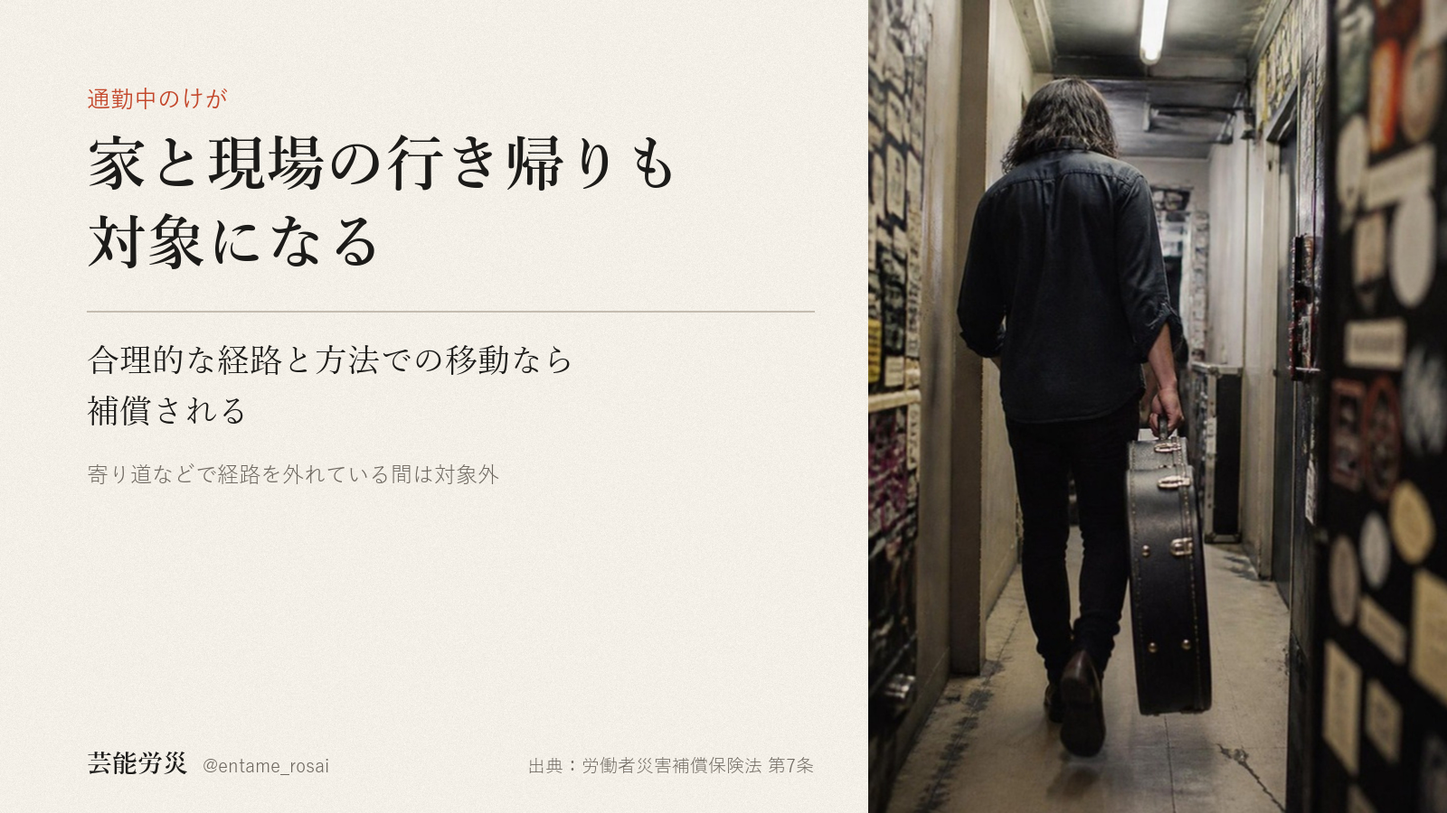
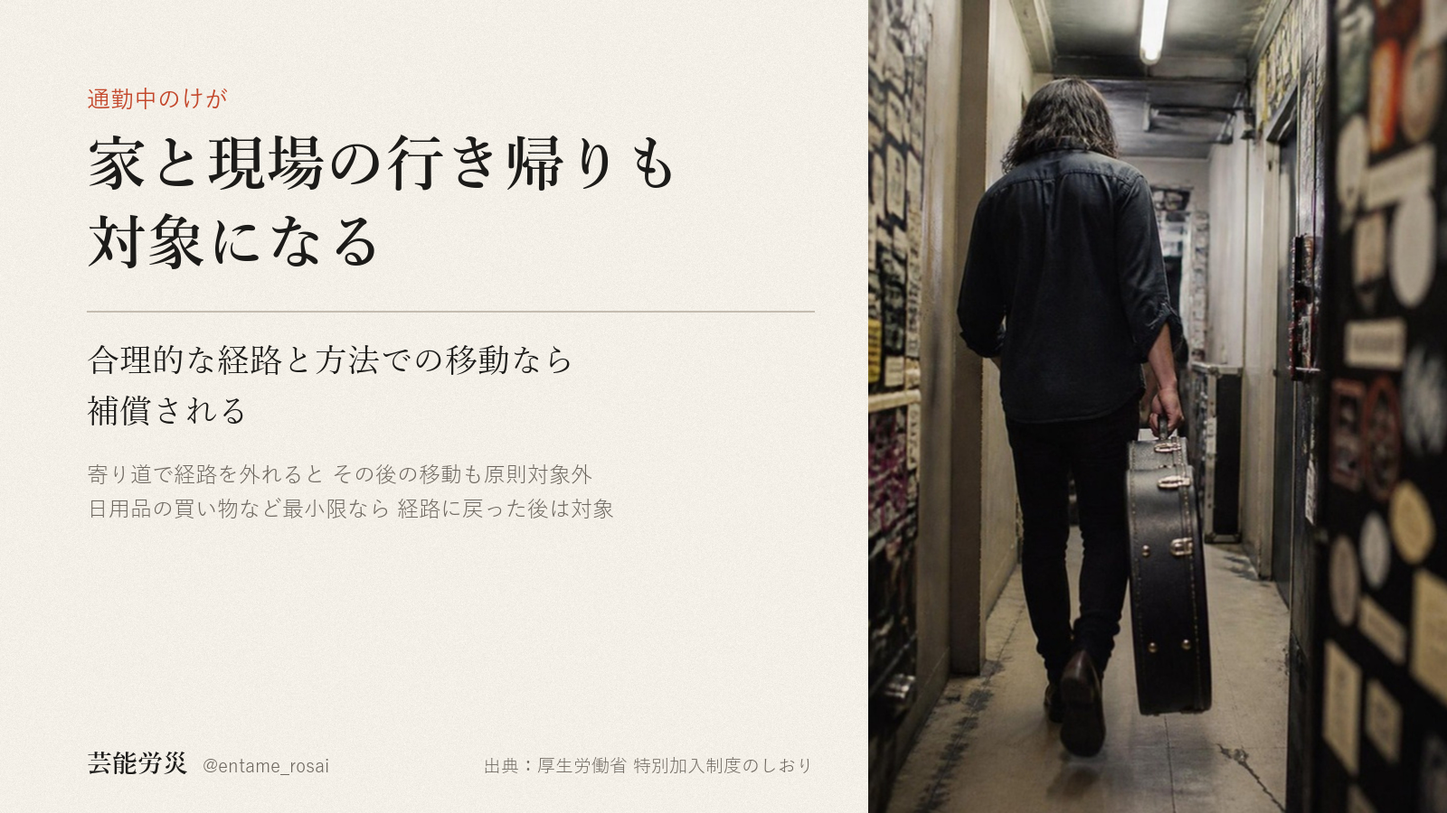
投稿デスク更新 2026-10-19（10-17 通勤の記述を修正）

Changed region(s): [[0.0625, 0.56, 0.4062, 0.6533], [0.3438, 0.9333, 0.5625, 0.9644], [0.3438, 0.6222, 0.4375, 0.6533]]

diff --git a/index.html b/index.html
@@ -351,7 +351,7 @@ dialog img{width:100%;height:auto;border-radius:18px;display:block}
 <div class="toast" id="toast">コピーしました</div>
 <dialog id="zoom"><img alt=""></dialog>
 
-<script id="desk-data" type="application/json">{"account":"@entame_rosai","days":[{"date":"2026-10-19","label":"10月19日（月）　今日","items":[{"key":"x","date":"2026-10-12","label":"X（@entame_rosai）","account":"@entame_rosai","text":"給付基礎日額を3,500円にしても25,000円にしても、治療費の給付は変わりません。療養の給付は日額と関係がなく、期間や金額の上限もありません。日額で金額が変わるのは、休業給付や、障害・遺族の年金などです。\n（労働者災害補償保険法）","chars":116,"lines":2,"hashtags":0,"limit":140,"status":"生成済・未投稿","url":"","images":[{"name":"x_image.png","path":"assets/2026-10-12/x_image/x_image.png"}],"alt":"生成りの紙のような地に、明朝体の見出し「日額をいくらにしても、治療費の給付は同じ」。その下に2つの列が等号でつながっている。左は「選んだ日額 3,500円／治療費の給付 上限なし」、右は「選んだ日額 25,000円／治療費の給付 上限なし」。下に小さく「日額で金額が変わるのは、休業給付や、障害・遺族の年金など」。画面の右3分の1は、軍手をはめた手で黒い舞台の床にテープを貼っているスタッフの手元の写真。左下に「芸能労災 @entame_rosai」、出典「労働者災害補償保険法」。","check":{"errors":[],"warns":[]},"made":"2026-10-12","slot":"2026-10-19"}]},{"date":"2026-10-20","label":"10月20日（火）　投稿予定","items":[{"key":"x","date":"2026-10-13","label":"X（@entame_rosai）","account":"@entame_rosai","text":"休業中の給付は、韓国の芸術人の労災保険では平均賃金の70%です。日本の特別加入では、本人が選んだ給付基礎日額の80%で、休業4日目から、療養のため仕事にまったく就けない日が対象です。率は日本が高く、足りないのは届け方です。\n（韓国芸術人福祉財団／労働者災害補償保険法）","chars":133,"lines":2,"hashtags":0,"limit":140,"status":"生成済・未投稿","url":"","images":[{"name":"x_image.png","path":"assets/2026-10-13/x_image/x_image.png"}],"alt":"左半分は、青い照明に染まった舞台の写真。半透明の幕の前に、誰も座っていない椅子が4脚、横一列に並んでいる。人は写っていない。右半分は生成りの紙の地に明朝体で「率は日本が高い　足りないのは届け方」。その下に罫線の表があり、休業中の給付は、韓国の芸術人の労災保険が平均賃金の70%、日本の特別加入が給付基礎日額の80%。注記として、日本は休業4日目から、仕事にまったく就けない日が対象、日額は本人が16段階から選ぶ。出典は韓国芸術人福祉財団と労働者災害補償保険法。","check":{"errors":[],"warns":[]},"made":"2026-10-13","slot":"2026-10-20"},{"key":"yabe","date":"2026-10-13","label":"X（@yabemasaru23）","account":"@yabemasaru23","text":"芸能の仕事が労災保険の特別加入の対象になって、5年半になります。正直に言うと、私は一緒に現場をつくってきた仲間に、この制度のことをきちんと話してきませんでした。けがの話を自分から切り出すのを、どこかで避けていたのだと思います。知らせるのは、本来こちら側の役目でした。","chars":133,"lines":1,"hashtags":0,"limit":0,"status":"生成済・未投稿","url":"","images":[],"alt":"","check":{"errors":[],"warns":[]},"made":"2026-10-13","slot":"2026-10-20"}]},{"date":"2026-10-21","label":"10月21日（水）　投稿予定","items":[{"key":"x","date":"2026-10-14","label":"X（@entame_rosai）","account":"@entame_rosai","text":"労災の特別加入の費用を、手数料込みで書きます。給付基礎日額10,000円を選んだ場合、月1,600円（保険料912円、組合費500円、手数料188円）。初月のみ入会事務手数料2,000円。保険料の部分は全額、社会保険料控除の対象です。（当団体申込フォームの試算・2026年10月）","chars":140,"lines":1,"hashtags":0,"limit":140,"status":"（台帳に記載なし）","url":"","images":[{"name":"x_image.png","path":"assets/2026-10-14/x_image/x_image.png"}],"alt":"左半分は、窓際の古い木の机に開いたノートと鉛筆、奥に折りたたみ椅子がある部屋の写真。人は写っていない。右半分は生成りの紙の地に明朝体で「手数料込みで月1,600円」。上に「給付基礎日額10,000円を選んだ場合」。罫線の表で月額の内訳が、保険料912円、組合費500円、手数料188円。注記に、初月のみ入会事務手数料2,000円、控除の対象は保険料912円の部分。出典は当団体申込フォームの試算（2026年10月）。","check":{"errors":[],"warns":[]},"made":"2026-10-14","slot":"2026-10-21"}]},{"date":"2026-10-22","label":"10月22日（木）　投稿予定","items":[{"key":"x","date":"2026-10-15","label":"X（@entame_rosai）","account":"@entame_rosai","text":"労災の特別加入は、さかのぼって入ることができません。補償されるのは、加入した日より後に起きた仕事中のけがです。加入審査はないので、いま治療中のけががある人も、年齢が上の人も入れます。始める月は、申込のときに自分で選べます。（厚生労働省 特別加入制度）","chars":125,"lines":1,"hashtags":0,"limit":140,"status":"（台帳に記載なし）","url":"","images":[{"name":"x_image.png","path":"assets/2026-10-15/x_image/x_image.png"}],"alt":"右側は、電球に囲まれた楽屋の鏡と化粧台、手前に椅子の背が写る写真。人は写っていない。左側は生成りの紙の地に明朝体で「さかのぼって入ることはできない」。続けて「補償されるのは加入した日より後の仕事中のけが」。注記に、加入審査はなく治療中の人も年齢が上の人も入れる、始める月は申込のときに自分で選べる。出典は厚生労働省 特別加入制度。","check":{"errors":[],"warns":[]},"made":"2026-10-15","slot":"2026-10-22"}]},{"date":"2026-10-23","label":"10月23日（金）　投稿予定","items":[{"key":"x","date":"2026-10-16","label":"X（@entame_rosai）","account":"@entame_rosai","text":"芸能の仕事をする人がフリーランスのまま労災保険に特別加入できるようになったのは、2021年4月からです。俳優、ダンサー、演出家、撮影や照明のスタッフなどが対象です。2024年11月からは、ほかの職種のフリーランスも入れるようになりました。（厚生労働省）","chars":126,"lines":1,"hashtags":0,"limit":140,"status":"（台帳に記載なし）","url":"","images":[{"name":"x_image.png","path":"assets/2026-10-16/x_image/x_image.png"}],"alt":"右側は、夕暮れの住宅街の道で、録音マイクを掲げるスタッフとカメラを構える人を後ろから写した写真。顔は写っていない。左側は生成りの紙の地に大きく「2021年4月」。その下に明朝体で「フリーランスのまま労災に入れるようになった」。注記に、俳優、ダンサー、演出家、撮影や照明のスタッフなど、2024年11月からはほかの職種のフリーランスも対象。出典は厚生労働省。","check":{"errors":[],"warns":[]},"made":"2026-10-16","slot":"2026-10-23"}]},{"date":"2026-10-24","label":"10月24日（土）　投稿予定","items":[{"key":"x","date":"2026-10-17","label":"X（@entame_rosai）","account":"@entame_rosai","text":"労災の特別加入は、現場でのけがだけでなく、通勤中のけがも対象です。家と現場を行き来する途中の事故も、合理的な経路と方法での移動なら補償されます。寄り道などで経路を外れている間は対象外です。（労働者災害補償保険法 第7条）","chars":110,"lines":1,"hashtags":0,"limit":140,"status":"（台帳に記載なし）","url":"","images":[{"name":"x_image.png","path":"assets/2026-10-17/x_image/x_image.png"}],"alt":"右側は、ステッカーだらけの狭い楽屋廊下を、ギターケースを提げて歩いていく人を後ろから写した写真。顔は写っていない。左側は生成りの紙の地に明朝体で「家と現場の行き帰りも対象になる」。続けて「合理的な経路と方法での移動なら補償される」。注記に、寄り道などで経路を外れている間は対象外。出典は労働者災害補償保険法 第7条。","check":{"errors":[],"warns":[]},"made":"2026-10-17","slot":"2026-10-24"}]},{"date":"2026-10-13","label":"10月13日（火）","items":[{"expires":"2026-10-31","key":"reply1","date":"2026-10-13","label":"X 返信（@entame_rosai）","account":"@entame_rosai","text":"2024年11月は、フリーランス全般が労災保険の特別加入の対象に広がった月でもありました。施行から3年の見直しにどんな声が集まるのか、2027年版の白書を楽しみにしています！","chars":87,"lines":1,"hashtags":0,"limit":140,"status":"（返信。台帳は「X（返信）」の行）","url":"","replyTo":"https://x.com/freelance_jp/status/2105537253900714463","images":[],"alt":"","check":{"errors":[],"warns":[]},"deadline":"2026-10-31","made":"2026-10-13","slot":"2026-10-13"}]},{"date":"2026-10-12","label":"10月12日（月）","items":[{"key":"ig","date":"2026-10-12","label":"Instagram（@entame_rosai）","account":"@entame_rosai","text":"労災の特別加入では、補償の基準になる「給付基礎日額」を、加入する本人が選びます。実際の収入とは切り離して、3,500円から25,000円までの16段階から選べます。\n\nこの1つの額が何に効いて、何に効かないのかを並べました。\n\n効かないもの。治療費の給付（療養）は日額をもとに計算しません。3,500円を選んでも25,000円を選んでも同じです。期間にも金額にも上限がなく、労災指定医療機関なら窓口での負担は原則ありません。介護の給付も、日額とは関係なく決まります。\n\n効くもの1つ目は休業給付です。日額の80%（休業給付60%＋休業特別支給金20%）で、日額3,500円なら1日2,800円、10,000円なら8,000円、25,000円なら20,000円です。休業4日目から、療養のため仕事にまったく就けない日が対象で、原則1年6か月までです。\n\n2つ目は、傷病年金、障害、遺族、葬祭料です。どれも日額をもとに金額が決まります。障害等級1〜7級の障害が残った場合や遺族への給付は、一時金ではなく年金です。\n\n3つ目は保険料です。給付基礎日額×365日×0.3%で、日額3,500円なら年3,832円、10,000円なら年10,950円、25,000円なら年27,375円。これに事務手数料が月500円（年6,000円）かかるので、合わせると年9,832円、16,950円、33,375円です。日額10,000円なら月およそ1,400円になります。支払った保険料は、全額が社会保険料控除の対象です。\n\n日額を高くすると、休業の給付や年金も、保険料も上がります。治療費の給付は変わりません。どこに合わせるかは人によって違います。迷う点があれば、コメントに書いてもらえれば調べます。\n\n私たちは東京労働局長の承認を受けた労災保険特別加入団体で、加入の受付もしている当事者です。そのうえで書いています。特別加入を扱う団体は、私たちのほかにもあります。\n\n※給付の可否・金額は個別の状況により労働基準監督署が判断します。\n※金額は、文中に示した給付基礎日額の場合の例です。","chars":866,"lines":18,"hashtags":0,"limit":0,"status":"投稿済 10-13（`match_published.py` で案の全文と一致を確認）","url":"https://www.instagram.com/p/Debk824FAE_/","images":[{"name":"01.png","path":"assets/2026-10-12/instagram/01.png"},{"name":"02.png","path":"assets/2026-10-12/instagram/02.png"},{"name":"03.png","path":"assets/2026-10-12/instagram/03.png"},{"name":"04.png","path":"assets/2026-10-12/instagram/04.png"},{"name":"05.png","path":"assets/2026-10-12/instagram/05.png"},{"name":"06.png","path":"assets/2026-10-12/instagram/06.png"},{"name":"07.png","path":"assets/2026-10-12/instagram/07.png"},{"name":"08.png","path":"assets/2026-10-12/instagram/08.png"}],"alt":"--- 1枚目 ---\n表紙。暗い劇場で、脚立に乗ってスポットライトを調整するスタッフの後ろ姿の写真が全面に敷かれている。下半分に白い明朝体で「給付基礎日額」、続けて「何に効いて、何に効かないか」。小さく「フリーランスの労災保険」「特別加入で本人が選ぶ1つの金額について」。\n--- 2枚目 ---\n上半分は、稽古場の木の床で踊る人の足元の写真。下半分は生成りの地に、見出し「補償の基準になる1日あたりの額」。本文「労災の特別加入では、この額を加入する本人が選びます。実際の収入とは切り離して、自分で選べます」。補足「休業の給付や年金、保険料の計算は、この額がもとになります」。出典は労災保険法（特別加入）。\n--- 3枚目 ---\n大きな明朝体で「16段階」、その下に「3,500円から25,000円まで」。16の金額が4列4段に並ぶ。3,500、4,000、5,000、6,000、7,000、8,000、9,000、10,000、12,000、14,000、16,000、18,000、20,000、22,000、24,000、25,000。3,500と10,000と25,000の3つだけ朱色。下に「単位は円。朱色の3つは、この先で例に使う額です」。\n--- 4枚目 ---\n右側に、舞台袖の衣装ラックと、台本が置かれたパイプ椅子の写真が縦長に入っている。左に見出し「日額に関係しないもの　治療費の給付は、どの日額でも同じ」。本文「療養（補償）給付は日額をもとに計算しません。期間にも金額にも上限がありません。労災指定医療機関なら、窓口での負担は原則ありません」。出典は労災保険法。\n--- 5枚目 ---\n見出し「日額で変わるもの1　休業給付は日額の80%」。表で、選んだ日額3,500円なら休業1日あたり2,800円、10,000円なら8,000円、25,000円なら20,000円。下に「80%の内訳は、休業給付60%と休業特別支給金20%。休業4日目から。療養のため仕事にまったく就けない日が対象。原則1年6か月まで」。出典は労災保険法。\n--- 6枚目 ---\n上に、機材ケースを2人で運ぶスタッフの後ろ姿の写真の帯。見出し「日額で変わるもの2　年金や葬祭料も、日額がもとになる」。一覧で、傷病年金・障害・遺族・葬祭料は「日額をもとに決まる」、療養（治療費）と介護は「日額に関係しない」。下に「障害等級1〜7級の障害が残った場合や遺族への給付は、一時金ではなく年金です」。出典は労災保険法。\n--- 7枚目 ---\n見出し「日額で変わるもの3　保険料」。計算式「給付基礎日額×365日×0.3%」。表で、日額3,500円は保険料が年3,832円・事務手数料込みで年9,832円、10,000円は年10,950円・込みで年16,950円、25,000円は年27,375円・込みで年33,375円。下に「事務手数料は月500円（年6,000円）。日額10,000円なら、合わせて月およそ1,400円です。支払った保険料は、全額が社会保険料控除の対象です」。出典は労働保険徴収法。\n--- 8枚目 ---\n終演後の舞台の縁に座って客席を見ている人の後ろ姿の写真が、暗く落として全面に敷かれている。見出し「どこに合わせるかは、人によって違います」。本文「日額を高くすると、休業の給付や年金も、保険料も上がります。治療費の給付は変わりません。迷う点があれば、コメントに書いてもらえれば調べます」。下に「私たちは東京労働局長の承認を受けた労災保険特別加入団体で、加入の受付もしている当事者です。そのうえで書いています。特別加入を扱う団体は、私たちのほかにもあります」。注記「給付の可否・金額は個別の状況により労働基準監督署が判断します。金額は、各ページに示した給付基礎日額の場合の例です」。","check":{"errors":[],"warns":["競合の調査由来かもしれない数字/語: 0.3%　… …金です。  3つ目は保険料です。給付基礎日額×365日×0.3%で、日額3,500円なら年3,832円、10,000円な…"]},"made":"2026-10-12","slot":"2026-10-12"}]},{"date":"2026-10-11","label":"10月11日（日）","items":[{"key":"x","date":"2026-10-11","label":"X（@entame_rosai）","account":"@entame_rosai","text":"労災の給付には、税金がかかりません。休業給付も、障害の年金も非課税です。そして特別加入の保険料は、全額が社会保険料控除の対象です。受け取るときも、払うときも、税の扱いまで法律で決められています。\n（労働者災害補償保険法・所得税法）","chars":114,"lines":2,"hashtags":0,"limit":140,"status":"投稿済 10-12 9:01（1日遅れ。10-12 に `match_published.py` で案と一致を確認）","url":"https://x.com/entame_rosai/status/2109434269382984103","images":[{"name":"x_image.png","path":"assets/2026-10-11/x_image/x_image.png"}],"alt":"暗い舞台の床を、黄色いテープが縦に左右に分けている図。左側だけに照明が当たっている。上部の見出しは「労災の給付に税金はかからない」。照明の当たる左側に「受け取る給付　休業給付　障害の年金」。テープの右側の暗い側に「税金　課税されない」。左下に「特別加入の保険料は全額が社会保険料控除の対象」。右下に出典「労働者災害補償保険法　所得税法」、左下に署名「芸能労災 @entame_rosai」。","check":{"errors":[],"warns":[]},"made":"2026-10-11","slot":"2026-10-11"}]},{"date":"2026-10-10","label":"10月10日（土）","items":[{"key":"x","date":"2026-10-10","label":"X（@entame_rosai）","account":"@entame_rosai","text":"労災の補償は、治療が終わればそこまで、と思われがちです。実際は、障害等級1〜7級の障害が残った場合、障害の給付は一時金ではなく年金で支給されます（8〜14級は一時金）。治ったあとの暮らしまでを、制度は見ています。特別加入でも同じ仕組みです。\n（労働者災害補償保険法）","chars":132,"lines":2,"hashtags":0,"limit":140,"status":"投稿済 10-11 14:19（1日遅れ。10-12 に `match_published.py` で案と一致を確認）","url":"https://x.com/entame_rosai/status/2109151765270851638","images":[{"name":"x_image.png","path":"assets/2026-10-10/x_image/x_image.png"}],"alt":"写真。暗い舞台袖で、ヘッドセットを着けたスタッフが台本を開いて舞台のほうを見ている後ろ姿。左側に見出し「治ったあとの　暮らしまで見ている」。小見出しは労災保険の障害の給付。その下に「障害等級1〜7級の障害が残ったら　一時金ではなく年金で支給」「8〜14級は一時金　特別加入でも同じ仕組みです」。出典：労働者災害補償保険法。\n\n──────────────────────────────\n※ 入れる順番：画像を添付した直後、本文を打つ前に、上の1段落を代替テキスト欄に貼る（X は投稿後に追加できない）","check":{"errors":[],"warns":[]},"made":"2026-10-10","slot":"2026-10-10"}]}],"todo":[{"due":"今日","who":"作業者","title":"X（@entame_rosai）の今日の投稿","detail":"画像1枚を添付 → 代替テキストを入れる → 本文を貼る、の順。代替テキストは直近の投稿で入っていません。X は投稿後に足せません。","cid":"c-2026-10-12-x"},{"due":"期限 10/31（土）","who":"作業者","title":"返信を送る：返信先","detail":"「コピーして 返信先の投稿を開く」→ 返信欄に貼る。送る前に、左下のアカウントが @entame_rosai か必ず確認。期限を過ぎたら送らない。","cid":"c-2026-10-13-reply1"},{"due":"10/20（火）予定","who":"矢部さん","title":"X（@yabemasaru23）の投稿","detail":"矢部さん個人のアカウント。実感と違う箇所があれば直してから。","cid":"c-2026-10-13-yabe"},{"due":"未公開のまま","who":"矢部さん","title":"note の記事を公開（09/18作成）","detail":"このデスクには載っていません（note は矢部さんの手元の下書き）。公開するときは見出し画像を必ず設定。","cid":""},{"due":"未公開のまま","who":"矢部さん","title":"note の記事を公開（10/09作成）","detail":"このデスクには載っていません（note は矢部さんの手元の下書き）。公開するときは見出し画像を必ず設定。","cid":""},{"due":"投稿のたび","who":"作業者","title":"投稿URLと名前を、そのカードの欄に保存","detail":"記録が集まらないと、何が出たかを後から確かめられません。","cid":""}],"builtAt":"2026-10-19 07:02","today":"2026-10-19","followers":{"date":"10-13","x":5,"ig":21,"note":0},"hero":"assets/hero.jpg","endpoint":"https://script.google.com/macros/s/AKfycbxhxM75PszpPOX_HDJ4yuBmQSqu1b7CXq2sbCxlqTZ_TyF8hROH2MyKnYNU11avb8UQCA/exec"}</script>
+<script id="desk-data" type="application/json">{"account":"@entame_rosai","days":[{"date":"2026-10-19","label":"10月19日（月）　今日","items":[{"key":"x","date":"2026-10-12","label":"X（@entame_rosai）","account":"@entame_rosai","text":"給付基礎日額を3,500円にしても25,000円にしても、治療費の給付は変わりません。療養の給付は日額と関係がなく、期間や金額の上限もありません。日額で金額が変わるのは、休業給付や、障害・遺族の年金などです。\n（労働者災害補償保険法）","chars":116,"lines":2,"hashtags":0,"limit":140,"status":"生成済・未投稿","url":"","images":[{"name":"x_image.png","path":"assets/2026-10-12/x_image/x_image.png"}],"alt":"生成りの紙のような地に、明朝体の見出し「日額をいくらにしても、治療費の給付は同じ」。その下に2つの列が等号でつながっている。左は「選んだ日額 3,500円／治療費の給付 上限なし」、右は「選んだ日額 25,000円／治療費の給付 上限なし」。下に小さく「日額で金額が変わるのは、休業給付や、障害・遺族の年金など」。画面の右3分の1は、軍手をはめた手で黒い舞台の床にテープを貼っているスタッフの手元の写真。左下に「芸能労災 @entame_rosai」、出典「労働者災害補償保険法」。","check":{"errors":[],"warns":[]},"made":"2026-10-12","slot":"2026-10-19"}]},{"date":"2026-10-20","label":"10月20日（火）　投稿予定","items":[{"key":"x","date":"2026-10-13","label":"X（@entame_rosai）","account":"@entame_rosai","text":"休業中の給付は、韓国の芸術人の労災保険では平均賃金の70%です。日本の特別加入では、本人が選んだ給付基礎日額の80%で、休業4日目から、療養のため仕事にまったく就けない日が対象です。率は日本が高く、足りないのは届け方です。\n（韓国芸術人福祉財団／労働者災害補償保険法）","chars":133,"lines":2,"hashtags":0,"limit":140,"status":"生成済・未投稿","url":"","images":[{"name":"x_image.png","path":"assets/2026-10-13/x_image/x_image.png"}],"alt":"左半分は、青い照明に染まった舞台の写真。半透明の幕の前に、誰も座っていない椅子が4脚、横一列に並んでいる。人は写っていない。右半分は生成りの紙の地に明朝体で「率は日本が高い　足りないのは届け方」。その下に罫線の表があり、休業中の給付は、韓国の芸術人の労災保険が平均賃金の70%、日本の特別加入が給付基礎日額の80%。注記として、日本は休業4日目から、仕事にまったく就けない日が対象、日額は本人が16段階から選ぶ。出典は韓国芸術人福祉財団と労働者災害補償保険法。","check":{"errors":[],"warns":[]},"made":"2026-10-13","slot":"2026-10-20"},{"key":"yabe","date":"2026-10-13","label":"X（@yabemasaru23）","account":"@yabemasaru23","text":"芸能の仕事が労災保険の特別加入の対象になって、5年半になります。正直に言うと、私は一緒に現場をつくってきた仲間に、この制度のことをきちんと話してきませんでした。けがの話を自分から切り出すのを、どこかで避けていたのだと思います。知らせるのは、本来こちら側の役目でした。","chars":133,"lines":1,"hashtags":0,"limit":0,"status":"生成済・未投稿","url":"","images":[],"alt":"","check":{"errors":[],"warns":[]},"made":"2026-10-13","slot":"2026-10-20"}]},{"date":"2026-10-21","label":"10月21日（水）　投稿予定","items":[{"key":"x","date":"2026-10-14","label":"X（@entame_rosai）","account":"@entame_rosai","text":"労災の特別加入の費用を、手数料込みで書きます。給付基礎日額10,000円を選んだ場合、月1,600円（保険料912円、組合費500円、手数料188円）。初月のみ入会事務手数料2,000円。保険料の部分は全額、社会保険料控除の対象です。（当団体申込フォームの試算・2026年10月）","chars":140,"lines":1,"hashtags":0,"limit":140,"status":"（台帳に記載なし）","url":"","images":[{"name":"x_image.png","path":"assets/2026-10-14/x_image/x_image.png"}],"alt":"左半分は、窓際の古い木の机に開いたノートと鉛筆、奥に折りたたみ椅子がある部屋の写真。人は写っていない。右半分は生成りの紙の地に明朝体で「手数料込みで月1,600円」。上に「給付基礎日額10,000円を選んだ場合」。罫線の表で月額の内訳が、保険料912円、組合費500円、手数料188円。注記に、初月のみ入会事務手数料2,000円、控除の対象は保険料912円の部分。出典は当団体申込フォームの試算（2026年10月）。","check":{"errors":[],"warns":[]},"made":"2026-10-14","slot":"2026-10-21"}]},{"date":"2026-10-22","label":"10月22日（木）　投稿予定","items":[{"key":"x","date":"2026-10-15","label":"X（@entame_rosai）","account":"@entame_rosai","text":"労災の特別加入は、さかのぼって入ることができません。補償されるのは、加入した日より後に起きた仕事中のけがです。加入審査はないので、いま治療中のけががある人も、年齢が上の人も入れます。始める月は、申込のときに自分で選べます。（厚生労働省 特別加入制度）","chars":125,"lines":1,"hashtags":0,"limit":140,"status":"（台帳に記載なし）","url":"","images":[{"name":"x_image.png","path":"assets/2026-10-15/x_image/x_image.png"}],"alt":"右側は、電球に囲まれた楽屋の鏡と化粧台、手前に椅子の背が写る写真。人は写っていない。左側は生成りの紙の地に明朝体で「さかのぼって入ることはできない」。続けて「補償されるのは加入した日より後の仕事中のけが」。注記に、加入審査はなく治療中の人も年齢が上の人も入れる、始める月は申込のときに自分で選べる。出典は厚生労働省 特別加入制度。","check":{"errors":[],"warns":[]},"made":"2026-10-15","slot":"2026-10-22"}]},{"date":"2026-10-23","label":"10月23日（金）　投稿予定","items":[{"key":"x","date":"2026-10-16","label":"X（@entame_rosai）","account":"@entame_rosai","text":"芸能の仕事をする人がフリーランスのまま労災保険に特別加入できるようになったのは、2021年4月からです。俳優、ダンサー、演出家、撮影や照明のスタッフなどが対象です。2024年11月からは、ほかの職種のフリーランスも入れるようになりました。（厚生労働省）","chars":126,"lines":1,"hashtags":0,"limit":140,"status":"（台帳に記載なし）","url":"","images":[{"name":"x_image.png","path":"assets/2026-10-16/x_image/x_image.png"}],"alt":"右側は、夕暮れの住宅街の道で、録音マイクを掲げるスタッフとカメラを構える人を後ろから写した写真。顔は写っていない。左側は生成りの紙の地に大きく「2021年4月」。その下に明朝体で「フリーランスのまま労災に入れるようになった」。注記に、俳優、ダンサー、演出家、撮影や照明のスタッフなど、2024年11月からはほかの職種のフリーランスも対象。出典は厚生労働省。","check":{"errors":[],"warns":[]},"made":"2026-10-16","slot":"2026-10-23"}]},{"date":"2026-10-24","label":"10月24日（土）　投稿予定","items":[{"key":"x","date":"2026-10-17","label":"X（@entame_rosai）","account":"@entame_rosai","text":"労災の特別加入は、通勤中のけがも対象です。家と現場の間を、合理的な経路と方法で移動している間の事故が補償されます。寄り道で経路を外れると、その後の移動も原則対象外。日用品の買い物など必要最小限なら、経路に戻った後は対象です。（厚生労働省 特別加入制度のしおり）","chars":130,"lines":1,"hashtags":0,"limit":140,"status":"（台帳に記載なし）","url":"","images":[{"name":"x_image.png","path":"assets/2026-10-17/x_image/x_image.png"}],"alt":"右側は、ステッカーだらけの狭い楽屋廊下を、ギターケースを提げて歩いていく人を後ろから写した写真。顔は写っていない。左側は生成りの紙の地に明朝体で「家と現場の行き帰りも対象になる」。続けて「合理的な経路と方法での移動なら補償される」。注記に、寄り道で経路を外れるとその後の移動も原則対象外、日用品の買い物など最小限なら経路に戻った後は対象。出典は厚生労働省 特別加入制度のしおり。","check":{"errors":[],"warns":[]},"made":"2026-10-17","slot":"2026-10-24"}]},{"date":"2026-10-13","label":"10月13日（火）","items":[{"expires":"2026-10-31","key":"reply1","date":"2026-10-13","label":"X 返信（@entame_rosai）","account":"@entame_rosai","text":"2024年11月は、フリーランス全般が労災保険の特別加入の対象に広がった月でもありました。施行から3年の見直しにどんな声が集まるのか、2027年版の白書を楽しみにしています！","chars":87,"lines":1,"hashtags":0,"limit":140,"status":"（返信。台帳は「X（返信）」の行）","url":"","replyTo":"https://x.com/freelance_jp/status/2105537253900714463","images":[],"alt":"","check":{"errors":[],"warns":[]},"deadline":"2026-10-31","made":"2026-10-13","slot":"2026-10-13"}]},{"date":"2026-10-12","label":"10月12日（月）","items":[{"key":"ig","date":"2026-10-12","label":"Instagram（@entame_rosai）","account":"@entame_rosai","text":"労災の特別加入では、補償の基準になる「給付基礎日額」を、加入する本人が選びます。実際の収入とは切り離して、3,500円から25,000円までの16段階から選べます。\n\nこの1つの額が何に効いて、何に効かないのかを並べました。\n\n効かないもの。治療費の給付（療養）は日額をもとに計算しません。3,500円を選んでも25,000円を選んでも同じです。期間にも金額にも上限がなく、労災指定医療機関なら窓口での負担は原則ありません。介護の給付も、日額とは関係なく決まります。\n\n効くもの1つ目は休業給付です。日額の80%（休業給付60%＋休業特別支給金20%）で、日額3,500円なら1日2,800円、10,000円なら8,000円、25,000円なら20,000円です。休業4日目から、療養のため仕事にまったく就けない日が対象で、原則1年6か月までです。\n\n2つ目は、傷病年金、障害、遺族、葬祭料です。どれも日額をもとに金額が決まります。障害等級1〜7級の障害が残った場合や遺族への給付は、一時金ではなく年金です。\n\n3つ目は保険料です。給付基礎日額×365日×0.3%で、日額3,500円なら年3,832円、10,000円なら年10,950円、25,000円なら年27,375円。これに事務手数料が月500円（年6,000円）かかるので、合わせると年9,832円、16,950円、33,375円です。日額10,000円なら月およそ1,400円になります。支払った保険料は、全額が社会保険料控除の対象です。\n\n日額を高くすると、休業の給付や年金も、保険料も上がります。治療費の給付は変わりません。どこに合わせるかは人によって違います。迷う点があれば、コメントに書いてもらえれば調べます。\n\n私たちは東京労働局長の承認を受けた労災保険特別加入団体で、加入の受付もしている当事者です。そのうえで書いています。特別加入を扱う団体は、私たちのほかにもあります。\n\n※給付の可否・金額は個別の状況により労働基準監督署が判断します。\n※金額は、文中に示した給付基礎日額の場合の例です。","chars":866,"lines":18,"hashtags":0,"limit":0,"status":"投稿済 10-13（`match_published.py` で案の全文と一致を確認）","url":"https://www.instagram.com/p/Debk824FAE_/","images":[{"name":"01.png","path":"assets/2026-10-12/instagram/01.png"},{"name":"02.png","path":"assets/2026-10-12/instagram/02.png"},{"name":"03.png","path":"assets/2026-10-12/instagram/03.png"},{"name":"04.png","path":"assets/2026-10-12/instagram/04.png"},{"name":"05.png","path":"assets/2026-10-12/instagram/05.png"},{"name":"06.png","path":"assets/2026-10-12/instagram/06.png"},{"name":"07.png","path":"assets/2026-10-12/instagram/07.png"},{"name":"08.png","path":"assets/2026-10-12/instagram/08.png"}],"alt":"--- 1枚目 ---\n表紙。暗い劇場で、脚立に乗ってスポットライトを調整するスタッフの後ろ姿の写真が全面に敷かれている。下半分に白い明朝体で「給付基礎日額」、続けて「何に効いて、何に効かないか」。小さく「フリーランスの労災保険」「特別加入で本人が選ぶ1つの金額について」。\n--- 2枚目 ---\n上半分は、稽古場の木の床で踊る人の足元の写真。下半分は生成りの地に、見出し「補償の基準になる1日あたりの額」。本文「労災の特別加入では、この額を加入する本人が選びます。実際の収入とは切り離して、自分で選べます」。補足「休業の給付や年金、保険料の計算は、この額がもとになります」。出典は労災保険法（特別加入）。\n--- 3枚目 ---\n大きな明朝体で「16段階」、その下に「3,500円から25,000円まで」。16の金額が4列4段に並ぶ。3,500、4,000、5,000、6,000、7,000、8,000、9,000、10,000、12,000、14,000、16,000、18,000、20,000、22,000、24,000、25,000。3,500と10,000と25,000の3つだけ朱色。下に「単位は円。朱色の3つは、この先で例に使う額です」。\n--- 4枚目 ---\n右側に、舞台袖の衣装ラックと、台本が置かれたパイプ椅子の写真が縦長に入っている。左に見出し「日額に関係しないもの　治療費の給付は、どの日額でも同じ」。本文「療養（補償）給付は日額をもとに計算しません。期間にも金額にも上限がありません。労災指定医療機関なら、窓口での負担は原則ありません」。出典は労災保険法。\n--- 5枚目 ---\n見出し「日額で変わるもの1　休業給付は日額の80%」。表で、選んだ日額3,500円なら休業1日あたり2,800円、10,000円なら8,000円、25,000円なら20,000円。下に「80%の内訳は、休業給付60%と休業特別支給金20%。休業4日目から。療養のため仕事にまったく就けない日が対象。原則1年6か月まで」。出典は労災保険法。\n--- 6枚目 ---\n上に、機材ケースを2人で運ぶスタッフの後ろ姿の写真の帯。見出し「日額で変わるもの2　年金や葬祭料も、日額がもとになる」。一覧で、傷病年金・障害・遺族・葬祭料は「日額をもとに決まる」、療養（治療費）と介護は「日額に関係しない」。下に「障害等級1〜7級の障害が残った場合や遺族への給付は、一時金ではなく年金です」。出典は労災保険法。\n--- 7枚目 ---\n見出し「日額で変わるもの3　保険料」。計算式「給付基礎日額×365日×0.3%」。表で、日額3,500円は保険料が年3,832円・事務手数料込みで年9,832円、10,000円は年10,950円・込みで年16,950円、25,000円は年27,375円・込みで年33,375円。下に「事務手数料は月500円（年6,000円）。日額10,000円なら、合わせて月およそ1,400円です。支払った保険料は、全額が社会保険料控除の対象です」。出典は労働保険徴収法。\n--- 8枚目 ---\n終演後の舞台の縁に座って客席を見ている人の後ろ姿の写真が、暗く落として全面に敷かれている。見出し「どこに合わせるかは、人によって違います」。本文「日額を高くすると、休業の給付や年金も、保険料も上がります。治療費の給付は変わりません。迷う点があれば、コメントに書いてもらえれば調べます」。下に「私たちは東京労働局長の承認を受けた労災保険特別加入団体で、加入の受付もしている当事者です。そのうえで書いています。特別加入を扱う団体は、私たちのほかにもあります」。注記「給付の可否・金額は個別の状況により労働基準監督署が判断します。金額は、各ページに示した給付基礎日額の場合の例です」。","check":{"errors":[],"warns":["競合の調査由来かもしれない数字/語: 0.3%　… …金です。  3つ目は保険料です。給付基礎日額×365日×0.3%で、日額3,500円なら年3,832円、10,000円な…"]},"made":"2026-10-12","slot":"2026-10-12"}]},{"date":"2026-10-11","label":"10月11日（日）","items":[{"key":"x","date":"2026-10-11","label":"X（@entame_rosai）","account":"@entame_rosai","text":"労災の給付には、税金がかかりません。休業給付も、障害の年金も非課税です。そして特別加入の保険料は、全額が社会保険料控除の対象です。受け取るときも、払うときも、税の扱いまで法律で決められています。\n（労働者災害補償保険法・所得税法）","chars":114,"lines":2,"hashtags":0,"limit":140,"status":"投稿済 10-12 9:01（1日遅れ。10-12 に `match_published.py` で案と一致を確認）","url":"https://x.com/entame_rosai/status/2109434269382984103","images":[{"name":"x_image.png","path":"assets/2026-10-11/x_image/x_image.png"}],"alt":"暗い舞台の床を、黄色いテープが縦に左右に分けている図。左側だけに照明が当たっている。上部の見出しは「労災の給付に税金はかからない」。照明の当たる左側に「受け取る給付　休業給付　障害の年金」。テープの右側の暗い側に「税金　課税されない」。左下に「特別加入の保険料は全額が社会保険料控除の対象」。右下に出典「労働者災害補償保険法　所得税法」、左下に署名「芸能労災 @entame_rosai」。","check":{"errors":[],"warns":[]},"made":"2026-10-11","slot":"2026-10-11"}]},{"date":"2026-10-10","label":"10月10日（土）","items":[{"key":"x","date":"2026-10-10","label":"X（@entame_rosai）","account":"@entame_rosai","text":"労災の補償は、治療が終わればそこまで、と思われがちです。実際は、障害等級1〜7級の障害が残った場合、障害の給付は一時金ではなく年金で支給されます（8〜14級は一時金）。治ったあとの暮らしまでを、制度は見ています。特別加入でも同じ仕組みです。\n（労働者災害補償保険法）","chars":132,"lines":2,"hashtags":0,"limit":140,"status":"投稿済 10-11 14:19（1日遅れ。10-12 に `match_published.py` で案と一致を確認）","url":"https://x.com/entame_rosai/status/2109151765270851638","images":[{"name":"x_image.png","path":"assets/2026-10-10/x_image/x_image.png"}],"alt":"写真。暗い舞台袖で、ヘッドセットを着けたスタッフが台本を開いて舞台のほうを見ている後ろ姿。左側に見出し「治ったあとの　暮らしまで見ている」。小見出しは労災保険の障害の給付。その下に「障害等級1〜7級の障害が残ったら　一時金ではなく年金で支給」「8〜14級は一時金　特別加入でも同じ仕組みです」。出典：労働者災害補償保険法。\n\n──────────────────────────────\n※ 入れる順番：画像を添付した直後、本文を打つ前に、上の1段落を代替テキスト欄に貼る（X は投稿後に追加できない）","check":{"errors":[],"warns":[]},"made":"2026-10-10","slot":"2026-10-10"}]}],"todo":[{"due":"今日","who":"作業者","title":"X（@entame_rosai）の今日の投稿","detail":"画像1枚を添付 → 代替テキストを入れる → 本文を貼る、の順。代替テキストは直近の投稿で入っていません。X は投稿後に足せません。","cid":"c-2026-10-12-x"},{"due":"期限 10/31（土）","who":"作業者","title":"返信を送る：返信先","detail":"「コピーして 返信先の投稿を開く」→ 返信欄に貼る。送る前に、左下のアカウントが @entame_rosai か必ず確認。期限を過ぎたら送らない。","cid":"c-2026-10-13-reply1"},{"due":"10/20（火）予定","who":"矢部さん","title":"X（@yabemasaru23）の投稿","detail":"矢部さん個人のアカウント。実感と違う箇所があれば直してから。","cid":"c-2026-10-13-yabe"},{"due":"未公開のまま","who":"矢部さん","title":"note の記事を公開（09/18作成）","detail":"このデスクには載っていません（note は矢部さんの手元の下書き）。公開するときは見出し画像を必ず設定。","cid":""},{"due":"未公開のまま","who":"矢部さん","title":"note の記事を公開（10/09作成）","detail":"このデスクには載っていません（note は矢部さんの手元の下書き）。公開するときは見出し画像を必ず設定。","cid":""},{"due":"投稿のたび","who":"作業者","title":"投稿URLと名前を、そのカードの欄に保存","detail":"記録が集まらないと、何が出たかを後から確かめられません。","cid":""}],"builtAt":"2026-10-19 07:08","today":"2026-10-19","followers":{"date":"10-13","x":5,"ig":21,"note":0},"hero":"assets/hero.jpg","endpoint":"https://script.google.com/macros/s/AKfycbxhxM75PszpPOX_HDJ4yuBmQSqu1b7CXq2sbCxlqTZ_TyF8hROH2MyKnYNU11avb8UQCA/exec"}</script>
 <script>
 (function(){
   var DATA = JSON.parse(document.getElementById('desk-data').textContent);
